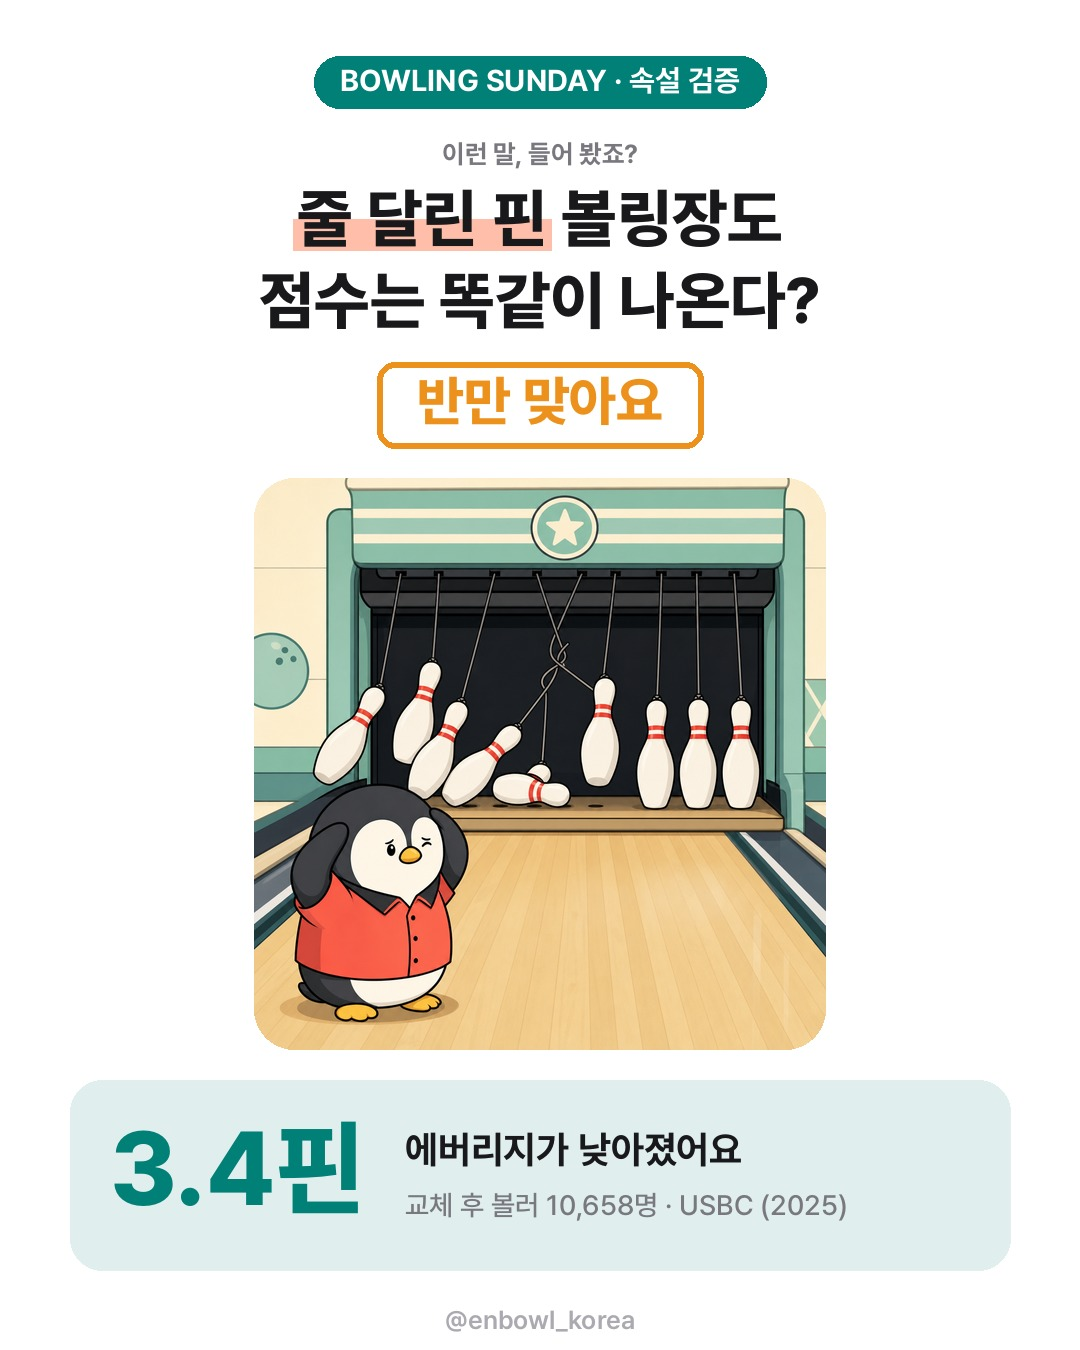
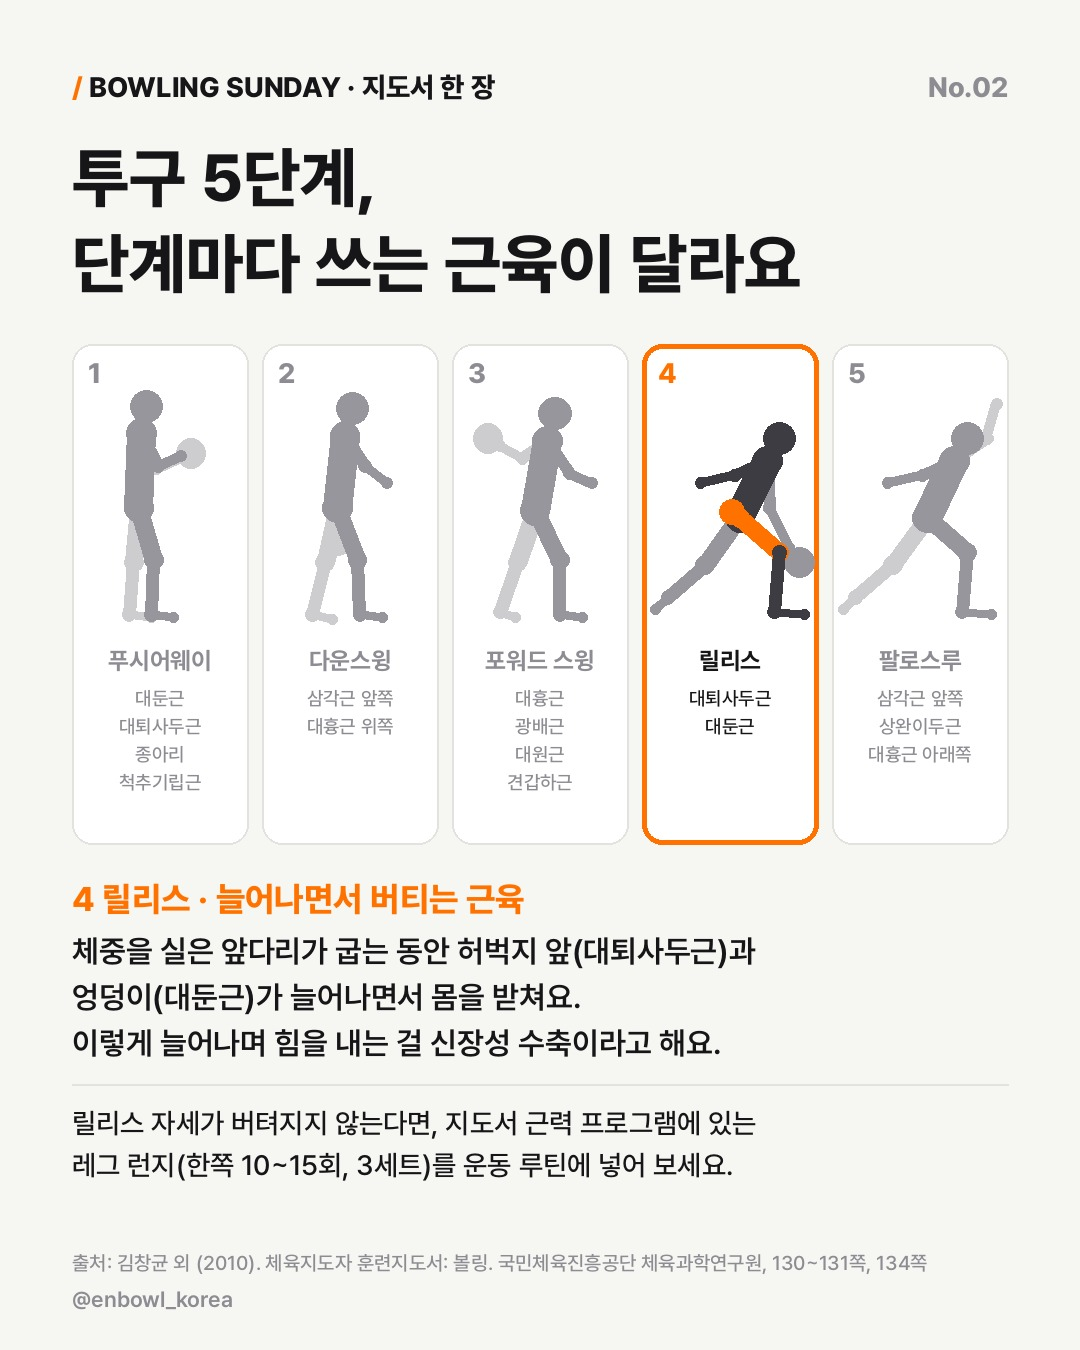
SUN02 지도서 한 장: 투구 5단계별 근육 (코드 실루엣) + BOWLING SUNDAY 방향 변경
Claude-Session: https://claude.ai/code/session_01HE2U51MhSGo6oMLaDbmpQF

diff --git a/scripts/cards/figure.py b/scripts/cards/figure.py
@@ -1,0 +1,79 @@
+"""코드로 그리는 볼러 실루엣 (오른손 볼러 옆모습, 오른쪽을 향함).
+좌표는 키 1.0 기준. n_ = 보는 쪽(왼쪽): 슬라이드 다리·균형 팔 / f_ = 뒤쪽(오른쪽): 볼 든 팔·뒤로 빠지는 다리.
+hi 에 부위 이름을 주면 그 부위만 강조색으로 칠한다. 부위: torso, n_thigh, n_shin, f_thigh, f_shin,
+n_uarm, n_farm, f_uarm, f_farm, glute(엉덩이), chest(가슴), shoulder(어깨), back(등), calf(종아리).
+"""
+
+POSES = {
+    "push": dict(head=(0.50, 0.09), sh=(0.48, 0.20), hip=(0.47, 0.50),
+                 n_knee=(0.53, 0.71), n_ank=(0.52, 0.93), n_toe=(0.61, 0.94),
+                 f_knee=(0.45, 0.72), f_ank=(0.43, 0.93), f_toe=(0.52, 0.94),
+                 n_elb=(0.55, 0.33), n_wr=(0.64, 0.29), f_elb=(0.54, 0.34), f_wr=(0.63, 0.30), ball=(0.68, 0.28)),
+    "down": dict(head=(0.53, 0.10), sh=(0.50, 0.21), hip=(0.47, 0.50),
+                 n_knee=(0.55, 0.71), n_ank=(0.56, 0.93), n_toe=(0.65, 0.94),
+                 f_knee=(0.42, 0.72), f_ank=(0.37, 0.93), f_toe=(0.45, 0.95),
+                 n_elb=(0.58, 0.33), n_wr=(0.67, 0.40), f_elb=(0.50, 0.40), f_wr=(0.48, 0.57), ball=(0.47, 0.63)),
+    "back": dict(head=(0.55, 0.12), sh=(0.52, 0.23), hip=(0.47, 0.51),
+                 n_knee=(0.57, 0.71), n_ank=(0.57, 0.93), n_toe=(0.66, 0.94),
+                 f_knee=(0.40, 0.72), f_ank=(0.33, 0.92), f_toe=(0.39, 0.94),
+                 n_elb=(0.61, 0.36), n_wr=(0.70, 0.40), f_elb=(0.42, 0.30), f_wr=(0.33, 0.25), ball=(0.28, 0.22)),
+    "release": dict(head=(0.62, 0.22), sh=(0.57, 0.31), hip=(0.46, 0.54),
+                    n_knee=(0.62, 0.68), n_ank=(0.60, 0.92), n_toe=(0.72, 0.93),
+                    f_knee=(0.32, 0.73), f_ank=(0.17, 0.86), f_toe=(0.12, 0.91),
+                    n_elb=(0.44, 0.37), n_wr=(0.30, 0.40), f_elb=(0.58, 0.50), f_wr=(0.66, 0.66), ball=(0.70, 0.72)),
+    "follow": dict(head=(0.62, 0.22), sh=(0.57, 0.31), hip=(0.46, 0.54),
+                   n_knee=(0.62, 0.68), n_ank=(0.60, 0.92), n_toe=(0.72, 0.93),
+                   f_knee=(0.32, 0.73), f_ank=(0.17, 0.86), f_toe=(0.12, 0.91),
+                   n_elb=(0.44, 0.37), n_wr=(0.30, 0.40), f_elb=(0.70, 0.22), f_wr=(0.74, 0.08), ball=None),
+}
+TH = dict(torso=0.12, thigh=0.075, shin=0.055, foot=0.04, uarm=0.05, farm=0.042)
+
+
+def _cap(d, a, b, w, col):
+    d.line((a, b), fill=col, width=int(w))
+    r = w / 2
+    for p in (a, b):
+        d.ellipse((p[0] - r, p[1] - r, p[0] + r, p[1] + r), fill=col)
+
+
+def _mix(a, b, t):
+    return (a[0] + (b[0] - a[0]) * t, a[1] + (b[1] - a[1]) * t)
+
+
+def draw(d, pose, ox, oy, h, near, far, hi=None, hi_col=(255, 114, 0)):
+    P = {k: (None if v is None else (ox + v[0] * h, oy + v[1] * h)) for k, v in POSES[pose].items()}
+    t = {k: v * h for k, v in TH.items()}
+    hi = set(hi or [])
+
+    def seg(name, a, b, w, base):
+        _cap(d, P[a], P[b], w, hi_col if name in hi else base)
+
+    seg("f_uarm", "sh", "f_elb", t["uarm"], far)
+    seg("f_farm", "f_elb", "f_wr", t["farm"], far)
+    seg("f_thigh", "hip", "f_knee", t["thigh"], far)
+    seg("f_shin", "f_knee", "f_ank", t["shin"], far)
+    seg("f_foot", "f_ank", "f_toe", t["foot"], far)
+    if P["ball"]:
+        bx, by = P["ball"]; br = 0.06 * h
+        d.ellipse((bx - br, by - br, bx + br, by + br), fill=far)
+    seg("torso", "sh", "hip", t["torso"], near)
+    seg("n_thigh", "hip", "n_knee", t["thigh"], near)
+    seg("n_shin", "n_knee", "n_ank", t["shin"], near)
+    seg("n_foot", "n_ank", "n_toe", t["foot"], near)
+    hx, hy = P["head"]; r = 0.065 * h
+    d.ellipse((hx - r, hy - r, hx + r, hy + r), fill=near)
+    seg("n_uarm", "sh", "n_elb", t["uarm"], near)
+    seg("n_farm", "n_elb", "n_wr", t["farm"], near)
+    # 몸통 위 부위 표시 (작은 타원)
+    spots = {
+        "glute": (_mix(P["hip"], P["sh"], 0.10), 0.05, -1.4),
+        "back": (_mix(P["hip"], P["sh"], 0.55), 0.04, -1),
+        "chest": (_mix(P["hip"], P["sh"], 0.78), 0.04, 1),
+        "shoulder": (P["sh"], 0.038, 0),
+        "calf": (_mix(P["n_knee"], P["n_ank"], 0.35), 0.03, -1),
+    }
+    for name, (c, rr, side) in spots.items():
+        if name in hi:
+            x, y = c; x += side * 0.03 * h; rr *= h
+            d.ellipse((x - rr, y - rr, x + rr, y + rr), fill=hi_col)
+    return P

diff --git a/scripts/cards/sun.py b/scripts/cards/sun.py
@@ -10,6 +10,10 @@
   {"kind": "homework", "type": "이번 주 숙제", "title": "*10번 핀*만 10번 노려 보기",
    "for": "10번 핀을 자주 놓치는 볼러", "steps": ["방법 한 줄", "횟수 한 줄", "확인할 것 한 줄"],
    "art": "...", "palette": {...}}
+지도서 한 장 (kind "phases"): 동작 단계별 실루엣 + 한 단계 강조 (앤볼 색: 숯색·주황·흰색)
+  {"kind": "phases", "type": "지도서 한 장", "no": 2, "title": "...", "phases": [
+     {"pose": "push"|"down"|"back"|"release"|"follow", "name": "푸시어웨이", "muscles": "대둔근 · 대퇴사두근", "hi": ["glute"]}, ...],
+   "focus": 3, "focus_title": "4 릴리스", "focus_text": "...", "source": "출처 한 줄"}
 kind 가 없으면 예전 형식(SUN01):
   {"type": "공감 한 컷", "headline": "*10번 핀* 하나\\n남았을 때", "sub": "...", "art": "assets/gpt/sun01/main.png",
    "palette": {"main": [R,G,B], "mark": [R,G,B]}}
@@ -122,8 +126,70 @@ def make_homework(spec, root, main, mark):
     return img
 
 
+def make_phases(spec, root):
+    from brand import ORANGE, INK as BINK, GRAY as BGRAY, LIGHT, WHITE, LINE
+    import figure
+    img = Image.new("RGB", (W, H), LIGHT)
+    d = ImageDraw.Draw(img)
+    fn = font("ExtraBold", 28)
+    d.text((72, 70), "/", font=fn, fill=ORANGE)
+    d.text((72 + d.textlength("/ ", font=fn), 70), f"BOWLING SUNDAY · {spec['type']}", font=fn, fill=BINK)
+    if spec.get("no"):
+        t = f"No.{spec['no']:02d}"
+        d.text((W - 72 - d.textlength(t, font=fn), 70), t, font=fn, fill=BGRAY)
+    y = 138
+    for line in spec["title"].split("\n"):
+        d.text((72, y), line, font=font("ExtraBold", 66), fill=BINK)
+        y += 86
+    phases = spec["phases"]
+    n = len(phases)
+    gap = 14
+    pw = (W - 144 - gap * (n - 1)) / n
+    top = y + 34
+    ph = 500
+    fh = 300 if n <= 4 else 248
+    for i, p in enumerate(phases):
+        x = 72 + i * (pw + gap)
+        on = i == spec.get("focus")
+        d.rounded_rectangle((x, top, x + pw, top + ph), radius=20, fill=WHITE,
+                            outline=ORANGE if on else LINE, width=5 if on else 2)
+        d.text((x + 16, top + 12), str(i + 1), font=font("ExtraBold", 28), fill=ORANGE if on else BGRAY)
+        near = (60, 60, 66) if on else (150, 150, 156)
+        far = (150, 150, 156) if on else (205, 205, 208)
+        xs = [v[0] for v in figure.POSES[p["pose"]].values() if v]
+        cx0 = (min(xs) + max(xs)) / 2
+        figure.draw(d, p["pose"], x + pw / 2 - cx0 * fh, top + 40, fh, near, far,
+                    hi=p.get("hi") if on else None)
+        fy = top + 40 + fh + 14
+        fnm = font("Bold", 24)
+        d.text((x + (pw - d.textlength(p["name"], font=fnm)) / 2, fy), p["name"], font=fnm, fill=BINK if on else BGRAY)
+        fm = font("Medium", 19)
+        my = fy + 40
+        for ml in p["muscles"].split("\n"):
+            d.text((x + (pw - d.textlength(ml, font=fm)) / 2, my), ml, font=fm, fill=BINK if on else BGRAY)
+            my += 28
+    y = top + ph + 34
+    d.text((72, y), spec["focus_title"], font=font("ExtraBold", 34), fill=ORANGE)
+    y += 54
+    for line in spec["focus_text"].split("\n"):
+        d.text((72, y), line, font=font("SemiBold", 31), fill=BINK)
+        y += 46
+    if spec.get("todo"):
+        y += 14
+        d.line((72, y, W - 72, y), fill=LINE, width=2)
+        y += 22
+        for line in spec["todo"].split("\n"):
+            d.text((72, y), line, font=font("Medium", 28), fill=BINK)
+            y += 42
+    d.text((72, H - 100), spec["source"], font=font("Medium", 20), fill=BGRAY)
+    d.text((72, H - 64), "@enbowl_korea", font=font("SemiBold", 22), fill=BGRAY)
+    return img
+
+
 def make(spec, root):
     pal = spec.get("palette", {})
+    if spec.get("kind") == "phases":
+        return make_phases(spec, root)
     if spec.get("kind") == "myth":
         return make_myth(spec, root, tuple(pal.get("main", (88, 60, 160))), tuple(pal.get("mark", (255, 220, 90))))
     if spec.get("kind") == "homework":

diff --git a/GUIDE.md b/GUIDE.md
@@ -82,15 +82,16 @@ BOWLING SCIENCE EP.NN | 논문 리뷰   (또는 연구 리뷰 / 볼링 뉴스)
 5. 렌더를 기다리는 동안 캡션·sources.md·PR 을 먼저 올려도 된다. PR 본문에 "영상 렌더 중(약 2시간), 끝나면 같은 PR 에 올라감" 이라고 적고, 끝나면 `reel.mp4` 를 장면별로 확인해 PR 본문의 캡처를 채운다.
 6. 나레이션만 바꿀 때는 다시 렌더하지 않는다: sfx.py 로 오디오만 새로 만들고 ffmpeg 로 영상에 다시 입힌다(`-map 0:v -map 1:a -c:v copy`).
 
-## 5-1. BOWLING SUNDAY (일, 단편 이미지 1장)
+## 5-1. BOWLING SUNDAY (일, 단편 이미지 1장): 지도서 한 장
 - 폴더 `posts/YYYY-MM-DD-SUNNN` (SUN 번호는 직전 +1, EP 번호와 별개). `content.json` 의 format 은 `"image"`, 결과물은 `image.jpg`.
-- **2026-11-26 방향 변경(준서님 결정):** 밈·용어·명언처럼 어느 볼링 계정이나 올리는 뻔한 콘텐츠는 쓰지 않는다. 코치·지공사·스포츠과학의 시선이 보이는 두 유형을 **번갈아** 쓴다. 직전 SUN 이 속설 검증이면 이번 주 숙제, 이번 주 숙제면 속설 검증(SUN01 은 예전 형식).
-  1. **속설 검증** (`"kind": "myth"`): 볼러들이 믿는 말 하나에 연구·공식 자료로 '맞아요 / 반만 맞아요 / 아니에요' 판정. 카드에 속설, 판정 도장, 근거 숫자 하나(+ 출처 한 줄). 판정은 원문을 직접 열어 확인한 것만. 자료가 여러 개면 최신 것까지 찾아본다(예: SUN02 는 2023 기계 시험 7.1% 가 아니라 2023 볼러 시험·2025 에버리지 자료로 판정).
-  2. **이번 주 숙제** (`"kind": "homework"`): 코치가 내 주는 연습 하나. 대상('이런 볼러에게'), 제목, 3단계(방법 / 횟수·기록 / 확인할 것). 저장해 두고 레인에서 바로 할 수 있게 구체적으로. 연습 효과를 숫자로 주장하려면 출처가 있어야 하고, 없으면 효과를 장담하지 않는다.
-- 그 주에 큰 볼링 뉴스(PBA·USBC·World Bowling·대한볼링협회 공식 발표)가 있으면, 뉴스를 속설 검증·숙제의 소재로 엮는다.
-- 그림은 GPT(그림 안에 글자 없음), 한글 문구는 코드로 얹는다. 매주 캐릭터·화풍 자유. 그림 최대 3장.
-- 캡션: 첫 줄 `BOWLING SUNDAY | 속설 검증` 또는 `BOWLING SUNDAY | 이번 주 숙제`, 둘째 줄 제목, 1~2문장 문단 2~4개. 속설 검증은 출처, 숙제는 '해 보고 몇 개였는지 댓글로' 같은 진짜 질문 한 줄 가능. 해시태그 6~10개.
-- 참고 코드: `scripts/cards/sun.py` (kind "myth" / "homework"). 기준 예시: `posts/2026-11-29-SUN02` (속설 검증).
+- **2026-11-26 방향 변경(준서님 결정):** 귀여운 캐릭터·밈·용어 한 컷은 쓰지 않는다(평일 카드뉴스가 이미 귀엽다). 학술지처럼 딱딱한 톤도 아니다.
+  **'체육지도자 훈련지도서: 볼링'(김창균 외, 2010, 국민체육진흥공단 체육과학연구원) 의 내용을 매주 한 꼭지씩 동호인 말로 풀어 준다.**
+- 교재 PDF 는 저작권이 있고 저장소가 공개라서 **저장소에 올리지 않는다.** 문장·그림을 옮기지 않고 새로 쓰고 코드로 다시 그린다. 출처는 저자·연도·쪽수까지 쓴다.
+- 교재가 2010년 책이므로 장비·규정·오일 같은 숫자는 현재 USBC·대한볼링협회 자료로 다시 확인한다. 스캔본이라 글자 인식 오류가 있으니 용어는 원본 쪽 이미지로 확인한다. 본문과 그림이 다르면(예: 130쪽 릴리스 근육의 다리 방향) PR 에 적는다.
+- 디자인: 앤볼 브랜드 색(`scripts/brand.py`: 주황 #FF7200, 숯색, 흰색/밝은 회색), Pretendard, 좌상단 `/ BOWLING SUNDAY · 지도서 한 장` 과 번호. 그림은 GPT 없이 코드로 그린다(`scripts/cards/figure.py` 볼러 실루엣, 레인·핀·볼 도식). 동작 단계 주제는 `sun.kind "phases"`(기준 예시 `posts/2026-11-29-SUN02`).
+- 구성: 제목(무엇을 알려 주는지) → 그림·도식 → 강조 한 꼭지 설명 → 할 일 한 줄(교재에 근거가 있을 때만) → 출처.
+- 캡션: 첫 줄 `BOWLING SUNDAY | 지도서 한 장`, 둘째 줄 제목, 1~2문장 문단 2~4개, 출처(저자·연도·쪽), 해시태그 6~10개.
+- 연재 순서(제안): 투구 단계별 근육(130~131쪽, SUN02) → 포켓 존·스트라이크 코스 → 스페어 스팟 이동 → 릴리스 손목·손가락(41쪽) → 39보드 활용 → 평형성 훈련(139쪽) → 준비·정리운동(26쪽) → 이완·심상훈련(154쪽~) → 경기 전 식사(173쪽).
 
 ## 6. 검수
 - 결과물을 직접 열어 본다. 카드는 전부, 릴스는 장면마다 프레임을 뽑아서.

diff --git a/sources.md b/sources.md
@@ -9,4 +9,4 @@
 | 07 | 2026-11-27 | 릴스 | 논문 | Lee & Chong (2018) 압박감과 투구 동작, ISBS | https://core.ac.uk/download/235627761.pdf |
 | SUN01 | 2026-11-22 | 단편 이미지 | 공감 | 10번 핀 하나 남았을 때 (회색 고양이) | - |
 | 06 | 2026-11-26 | 캐러셀 | 논문 | Lee et al. (2021) 말레이시아 국가대표 39명 손목·손 증상, Malays Orthop J | https://doi.org/10.5704/MOJ.2103.017 |
-| SUN02 | 2026-11-29 | 단편 이미지 | 속설 검증 | 스트링 핀세터 점수 차이 (펭귄). USBC 2023 통제 시험 + 2025 에버리지 비교 | https://bowl.com/getmedia/1a5eb52e-2600-4d6e-804e-e7549f14bd82/string-pinsetter-scoring-report_2025.pdf |
+| SUN02 | 2026-11-29 | 단편 이미지 | 지도서 한 장 | 투구 5단계별 사용 근육, 릴리스 신장성 수축 (김창균 외, 2010, 체육지도자 훈련지도서: 볼링, 130~131·134쪽) | - |
